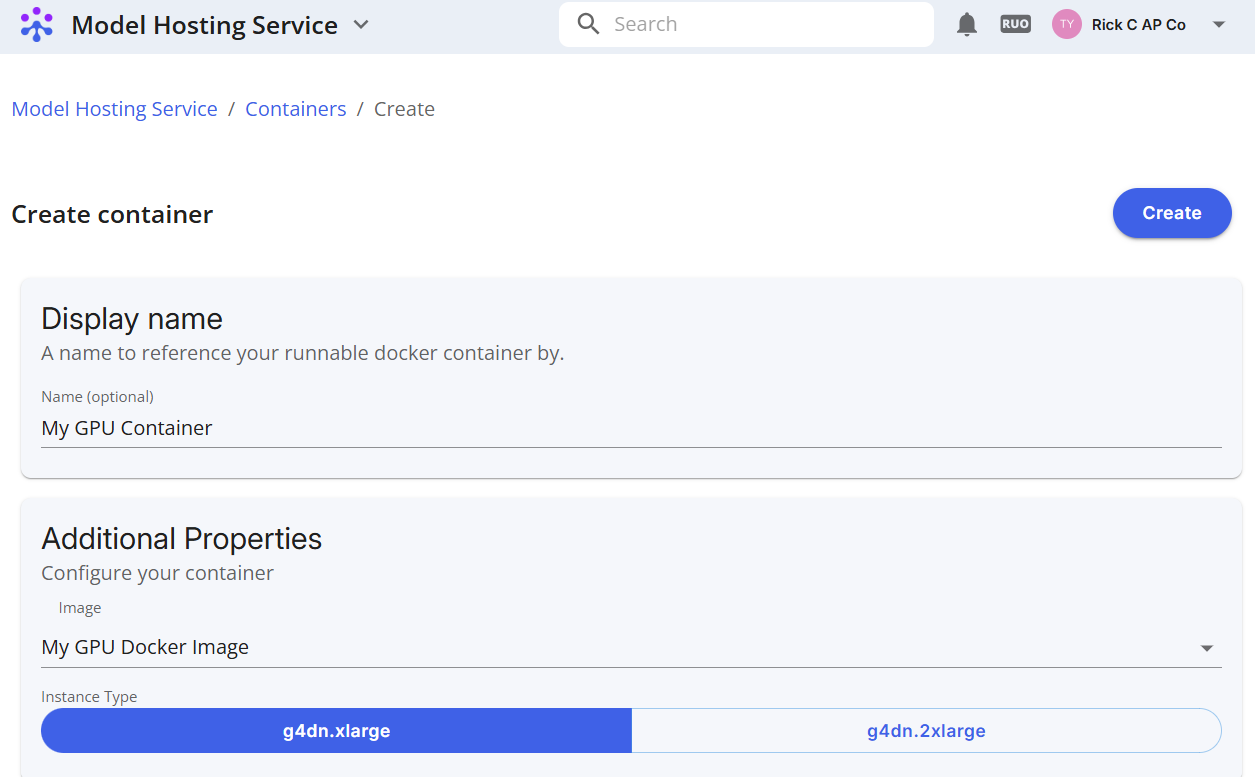
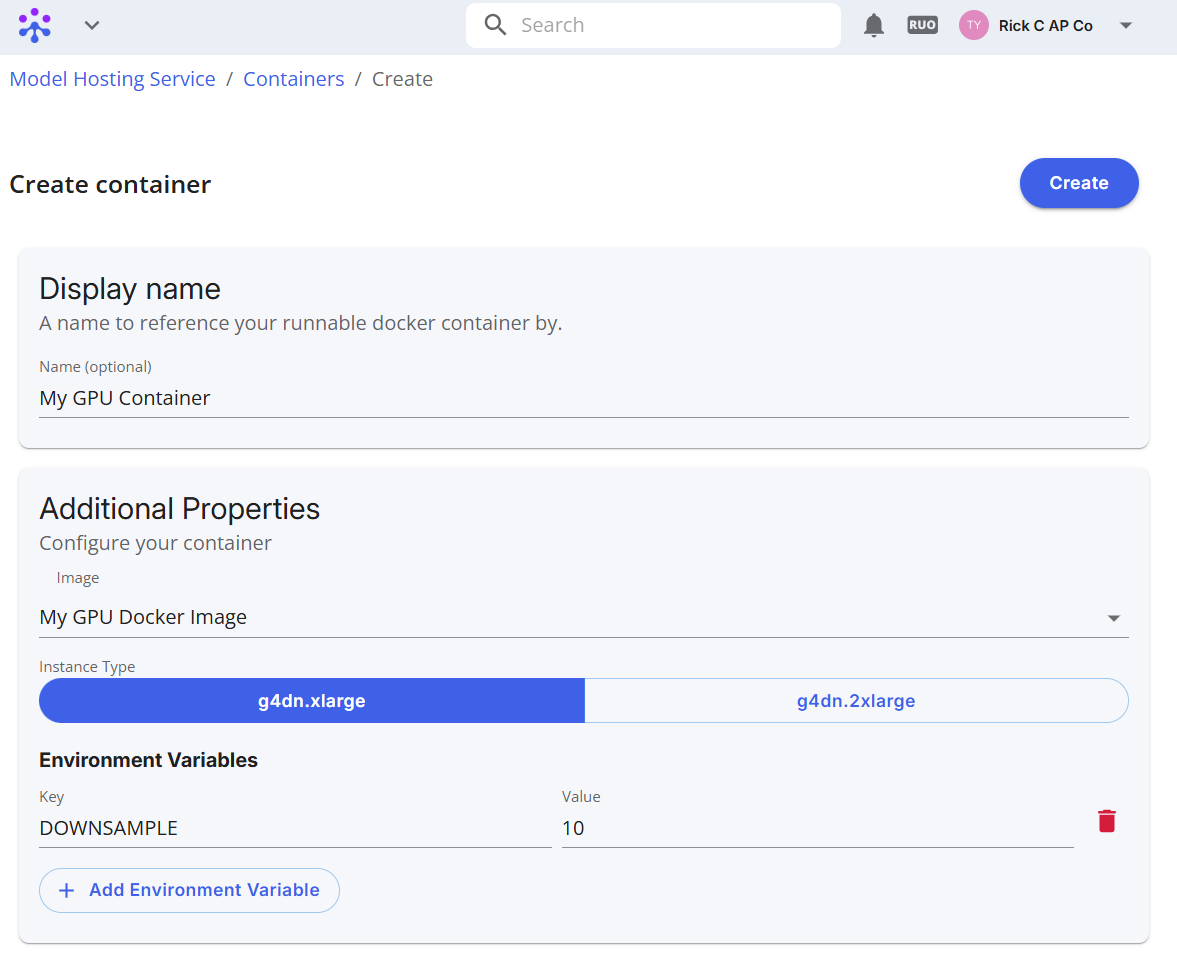
env vars

diff --git a/docs/guides/model-hosting-service/index.md b/docs/guides/model-hosting-service/index.md
@@ -55,7 +55,7 @@ Use the "Copy to clipboard" button for long commands. Uploading may take several
 
   ![](images/image16.png)
 
-* **Configure your container:** Set the name, select your image, and AWS runtime instance type. Additional configuration options will be available at a later date (environment vars).  
+* **Configure your container:** Set the name, select your image, and AWS runtime instance type. You can also configure additional environment variables to customize the container behavior. These variables are sent to the container with each invocation, along with the dynamic default pairs (listed [here](../../model-hosting-service.md#environment-variables)).  
 
   ![](images/image5.png)
 
